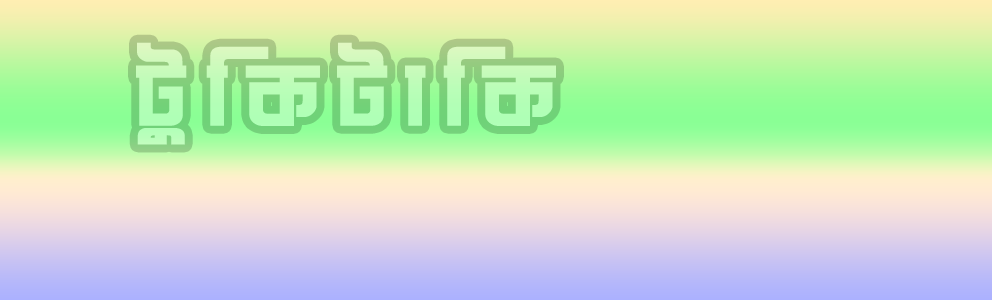
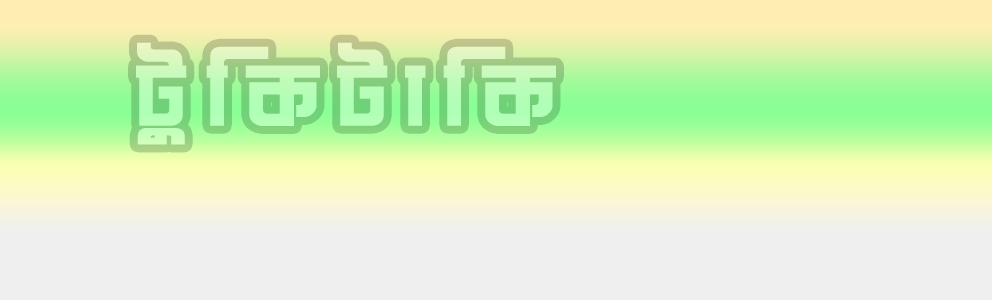
styles

diff --git a/css/style.css b/css/style.css
@@ -1,7 +1,6 @@
 body {
   font-family: "Montserrat", sans-serif;
-  background: #f6ffd0;
-  background: #fff2de;
+  background: #efefef;
   
 }
 th{
@@ -22,7 +21,7 @@ th{
   padding: 4px 0px;
   padding-left: 15px;
   display: flex;
-  background-color:rgba(255, 217, 221, 0.479);
+  background-color:rgba(255, 255, 255, 0.479);
   backdrop-filter: blur(10);
   z-index: 1;
   overflow: hidden;
@@ -37,7 +36,8 @@ th{
   top: 0;
   left: -100%;
   z-index: -1;
-  background: linear-gradient(90deg, #fff7ad,rgb(252, 208, 157));
+  background: linear-gradient(90deg, #feffb8d2,#daff8abe);
+  /* background: linear-gradient(90deg, #ffb1a3d2,#daff8abe); */
   transition: all .6s;
 }
 .search-field:hover::before{
@@ -74,12 +74,15 @@ th{
   padding: 10px;
   transition: 0.6s;
   border-radius: 8px;
-  box-shadow: 1px -1px 4px rgb(105, 87, 64);
+  box-shadow: 2px -2px 8px #A39393;
   background: white;
 
 }
 .single-product:hover {
-  box-shadow: -2px -2px 8px rgb(110, 32, 30);
+  box-shadow: -2px -2px 8px #83A38C;
+}
+.single-product:hover  .product-image{
+  transform: scale(1.05);
 }
 .single-product-info{
   position: relative;
@@ -88,6 +91,7 @@ th{
 .product-image {
   width: 200px;
   height: 200px;
+  transition: all 1s;
 }
 
 /* buttons on cards and cart */
@@ -102,11 +106,14 @@ th{
   transition: all .3s;
   overflow: hidden;
 }
+.custom-btn.add-btn{
+  background: rgb(250, 252, 136);
+}
 .custom-btn.buy-now{
-  background: rgb(255, 148, 129);
+  background: rgb(255, 131, 100);
 }
 .custom-btn.details{
-  background: rgb(131, 117, 255); 
+  background: #97c4ff; 
 }
 .custom-btn:hover{
   transform: scale(1.1);
@@ -115,8 +122,9 @@ th{
   position: absolute;
   content: '';
   width: 100%;
-  height: 100%;
+  height: 50%;
   background: white;
+  background: rgb(255, 255, 255);
   top: -100%;
   left: 0%;
   border-radius: 5px;
@@ -130,7 +138,7 @@ th{
   border: 2px solid rgb(63, 0, 122);
   padding: 10px;
   border-radius: 5px;
-  background-color: rgba(255, 255, 255, 0.616);
+  background-color: rgba(251, 255, 197, 0.404);
   backdrop-filter: blur(2px);
   top: 40%;
   position: fixed;

diff --git a/js/app.js b/js/app.js
@@ -13,18 +13,18 @@ const showProducts = (products) => {
     div.classList.add("col");
     div.innerHTML = `
     <div class="single-product h-100 d-flex flex-column justify-content-between px-3">
-      <div class="text-center">
+      <div class="text-center overflow-hidden">
         <img class="product-image" src="${image}"></img>
       </div>
       <div class = "mt-2">
-        <h4 class="pb-1">${product.title}</h4>
+        <h5 class="pb-1">${product.title}</h5>
         <p class="mb-0 d-flex justify-content-between">
          <small>Category: <span class="text-success" style="cursor:pointer;">${product.category}</span></small>
-         <span class="d-flex align-items-center">${product.rating.rate} <span class="material-icons text-warning fs-5">&#xe838;</span>(${product.rating.count})</span>
+         <span class="d-flex align-items-center">${product.rating.rate} <span class="material-icons fs-5" style="color:orange;">&#xe838;</span>(${product.rating.count})</span>
         </p>
-        <h5 class="text-center py-2">Price: $ <span class="fw-bold">${product.price} </span></h5>
+        <h6 class="text-center py-2">Price: $ <span class="fw-bold">${product.price} </span></h6>
         <div class="d-flex justify-content-evenly pb-2">
-          <button onclick="addToCart(${product.id},${product.price})" id="addToCart-btn" class="custom-btn buy-now me-1">Add to cart</button>
+          <button onclick="addToCart(${product.id},${product.price})" id="addToCart-btn" class="custom-btn add-btn me-1">Add to cart</button>
           <button id="details-btn" class="ms-1 custom-btn details">Details</button>
         </div>
       </div>

diff --git a/index.html b/index.html
@@ -17,7 +17,7 @@
   <link href="https://fonts.googleapis.com/icon?family=Material+Icons" rel="stylesheet">
 
   <link rel="shortcut icon" type="image/png" href="assets/favicon.png" />
-  <title>Tukitaki Shop</title>
+  <title>Tuki Taki</title>
   <!-- custom stylesheet -->
   <link rel="stylesheet" href="./css/style.css" />
 </head>
@@ -29,7 +29,7 @@
         <a class=" navbar-brand" href="#">
           <div class=" d-flex align-items-center ">
             <img src="/assets/favicon.png" alt="" width="30" height="30" class="d-inline-block align-text-top">
-            <h5 class="d-inline mb-0 ms-2">Tukitaki Shop</h5>
+            <h5 class="d-inline mb-0 ms-2">টুকিটাকি</h5>
           </div>
         </a>
       </div>
@@ -37,7 +37,6 @@
   </header>
 
   <main class="main mb-5">
-    <!-- <h1 class="text-center pb-2"> Tukitaki Shop</h1> -->
     <!-- search field -->
     <div class="hero py-5 text-center">
       <div class="d-flex justify-content-center py-5 align-items-center">
@@ -56,6 +55,7 @@
 
         <!-- product conatiner -->
         <div class="col-12 col-md-8 col-lg-9">
+          <h2 class="pb-4 text-center fw-bold">Most Popular</h2>
           <div id="all-products" class="row row-cols-1 row-cols-sm-2 row-cols-lg-3 gx-3 gy-5">
           </div>
         </div>
@@ -66,7 +66,7 @@
             <div class="cart" id="my-cart">
               <table class="table table-striped ">
                 <thead>
-                  <h3 class="text-center">My-Cart</h3>
+                  <h3 class="text-center">My Cart</h3>
                   <tr>
                     <td colspan="4"></td>
                   </tr>
